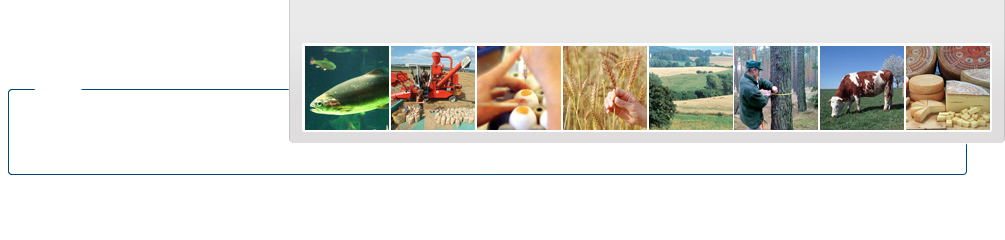
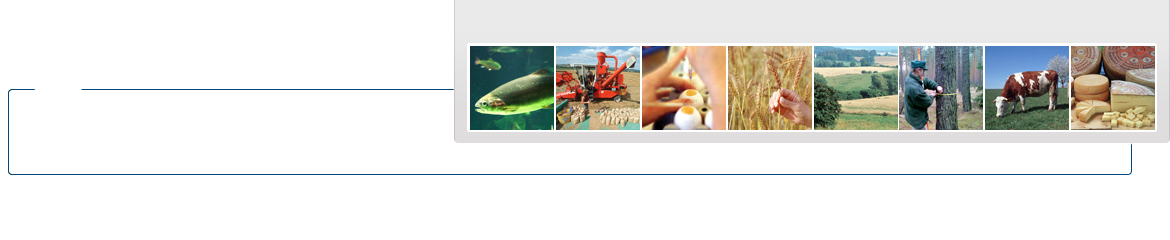
changed header to 1170px width

diff --git a/save/webpages/css/openagrar.css b/save/webpages/css/openagrar.css
@@ -77,27 +77,27 @@ html body header #header_box {
    top: 33px;
  }
 #logo_bfr {
-    left: 888px;
+    left: 1050px;
     top: 162px;
 }
 #logo_thuenen {
-  left: 812px;
+  left: 971px;
   top: 162px;
 }
 #logo_mri {
-  left: 745px;
+  left: 902px;
   top: 162px;
 }
 #logo_fli {
-  left: 692px;
+  left: 847px;
   top: 162px;
 }
 #logo_jki {
-  left: 636px;
+  left: 790px;
   top: 157px;
 }
 #logo_dbfz {
-  left: 583px;
+  left: 735px;
   top: 157px;
 }
 #site_logo {
